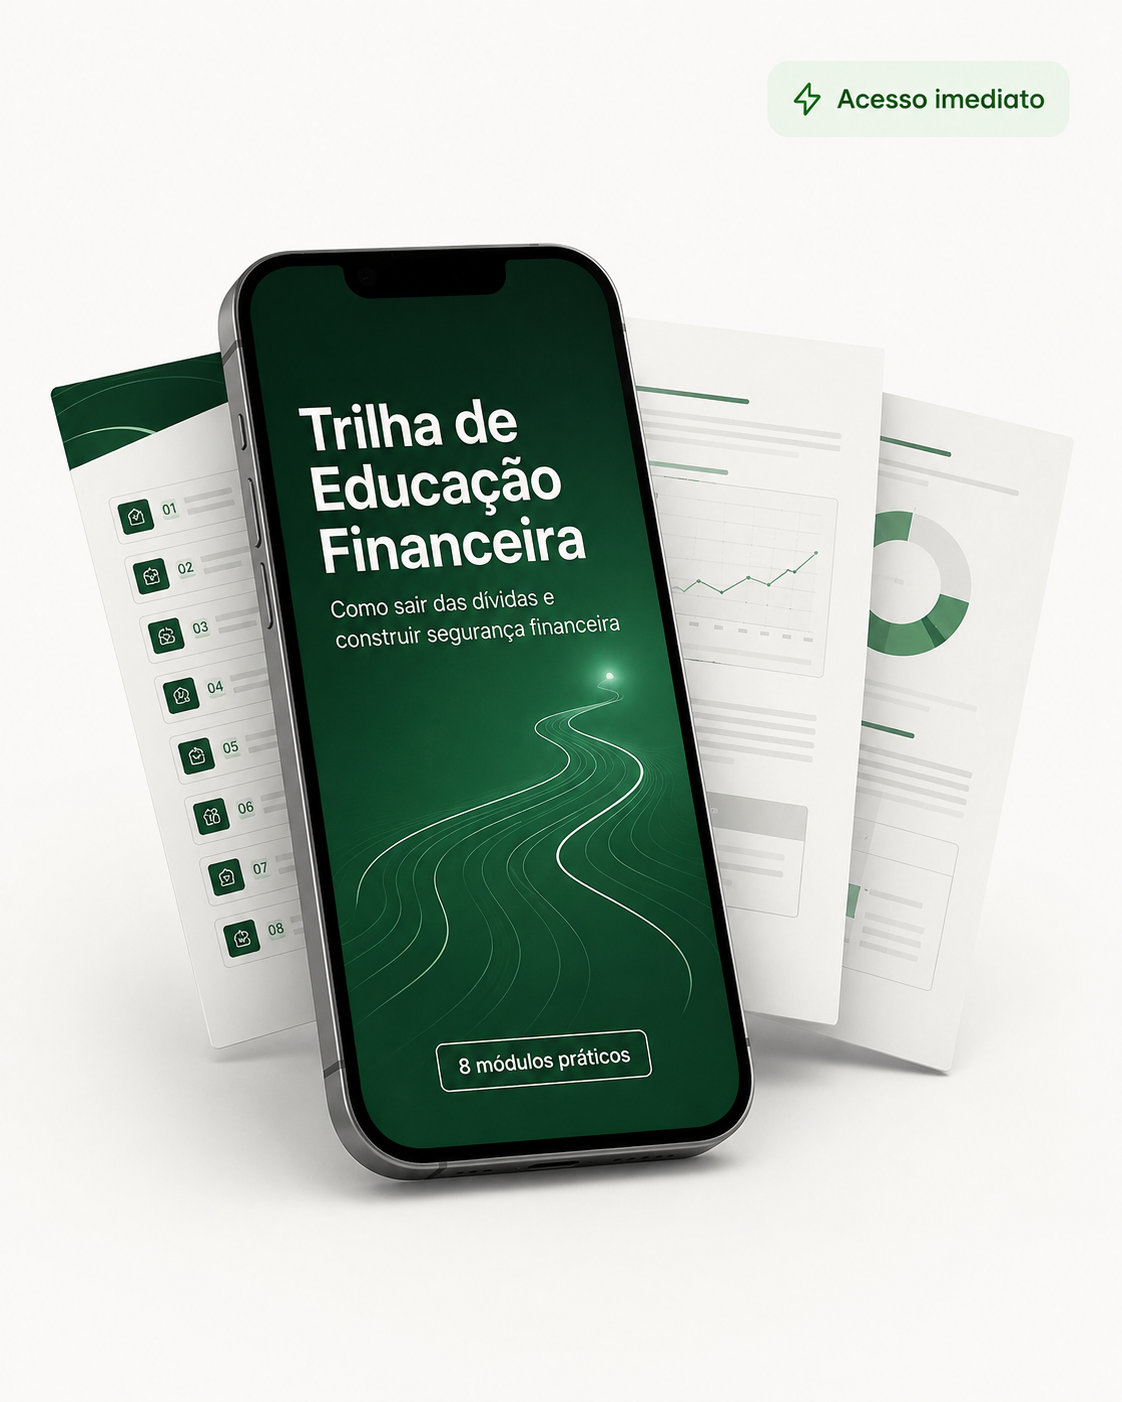
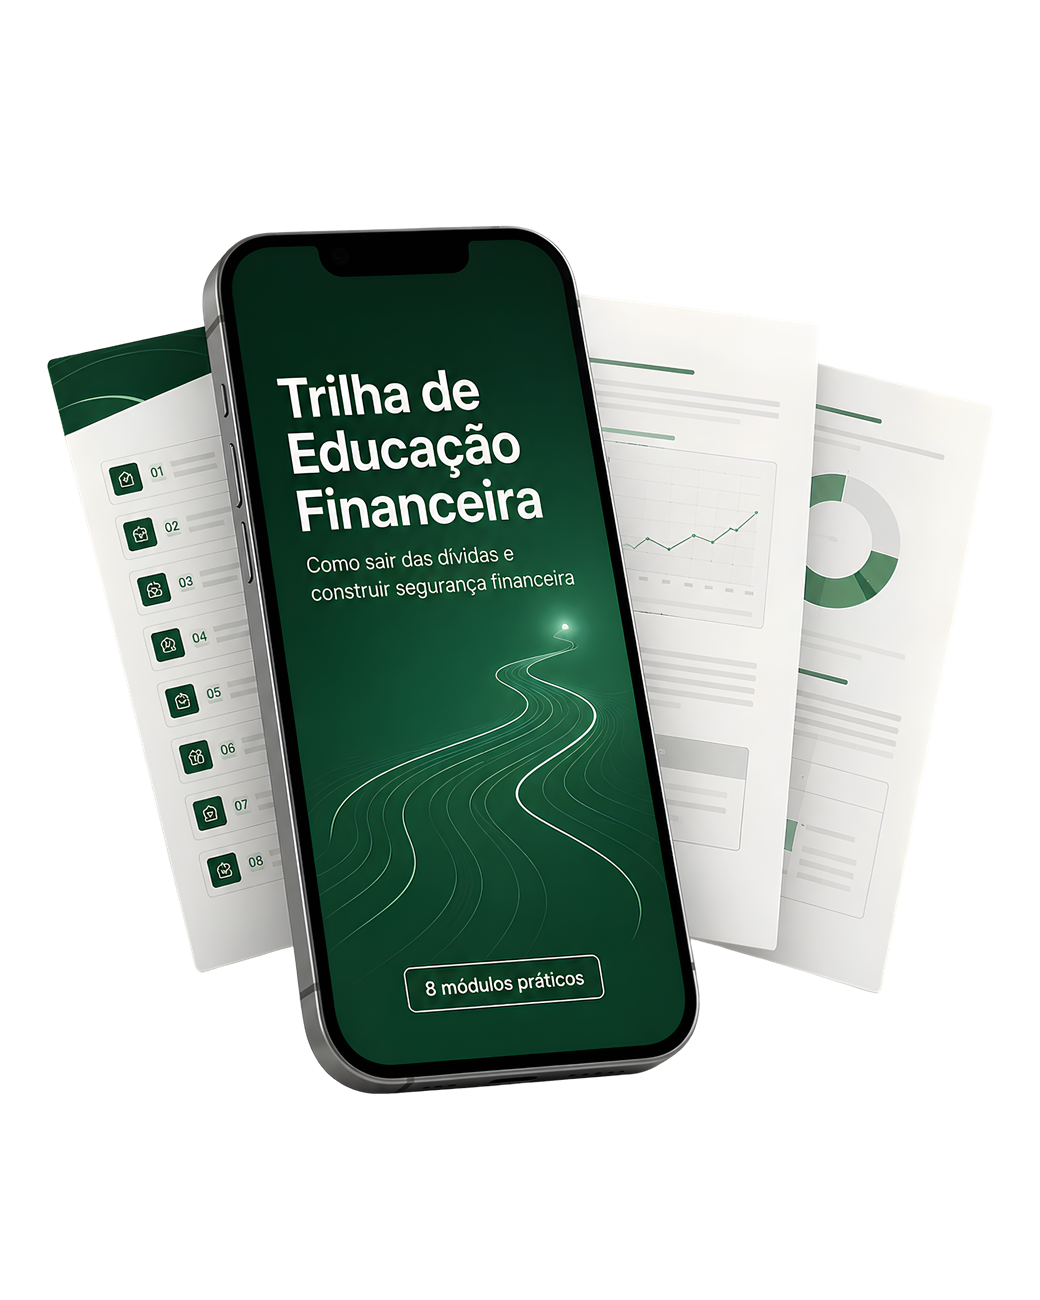
Otimiza mockup do produto com animacao leve

diff --git a/index.html b/index.html
@@ -456,6 +456,52 @@ fbq('track', 'PageView');
     margin-top: 2px;
   }
 
+  .product-mockup-section {
+    background:
+      radial-gradient(circle at 50% 20%, rgba(34,197,94,0.18), transparent 34%),
+      linear-gradient(180deg, var(--cream-dark) 0%, var(--cream) 58%, var(--dark) 100%);
+    padding: 32px 24px 76px;
+    overflow: hidden;
+  }
+  .product-mockup-frame {
+    position: relative;
+    max-width: 560px;
+    margin: 0 auto;
+    text-align: center;
+    isolation: isolate;
+  }
+  .product-mockup-frame::before {
+    content: '';
+    position: absolute;
+    inset: 14% 4% 8%;
+    background: radial-gradient(circle, rgba(34,197,94,0.28), rgba(13,43,26,0.08) 48%, transparent 72%);
+    filter: blur(24px);
+    z-index: -2;
+  }
+  .product-mockup-frame::after {
+    content: '';
+    position: absolute;
+    left: 12%;
+    right: 12%;
+    bottom: 2%;
+    height: 11%;
+    background: radial-gradient(ellipse, rgba(0,0,0,0.28), transparent 68%);
+    filter: blur(10px);
+    z-index: -1;
+  }
+  .product-mockup-image {
+    display: block;
+    width: min(100%, 520px);
+    height: auto;
+    margin: 0 auto;
+    filter:
+      drop-shadow(0 22px 28px rgba(0,0,0,0.22))
+      drop-shadow(0 0 26px rgba(34,197,94,0.16));
+    transform-origin: center;
+    animation: mockup-float 6s ease-in-out infinite;
+    will-change: transform, filter;
+  }
+
   /* ─── CHAPTERS ─── */
   .chapters-section {
     background: var(--dark);
@@ -856,6 +902,21 @@ fbq('track', 'PageView');
     50% { transform: translateY(-10px) rotate(0.5deg); }
   }
 
+  @keyframes mockup-float {
+    0%, 100% {
+      transform: translateY(0) rotate(-1.2deg) scale(1);
+      filter:
+        drop-shadow(0 22px 28px rgba(0,0,0,0.22))
+        drop-shadow(0 0 26px rgba(34,197,94,0.16));
+    }
+    50% {
+      transform: translateY(-12px) rotate(0.8deg) scale(1.015);
+      filter:
+        drop-shadow(0 30px 34px rgba(0,0,0,0.24))
+        drop-shadow(0 0 34px rgba(34,197,94,0.24));
+    }
+  }
+
   @media (prefers-reduced-motion: reduce) {
     html { scroll-behavior: auto; }
     *, *::before, *::after {
@@ -901,6 +962,8 @@ fbq('track', 'PageView');
       padding: 10px 14px;
       font-size: 14px;
     }
+    .product-mockup-section { padding: 24px 16px 56px; }
+    .product-mockup-image { width: min(100%, 380px); }
   }
 </style>
 </head>
@@ -1063,13 +1126,19 @@ alt=""></noscript>
   </div>
 </section>
 
-<div style="text-align: center; margin: 48px auto; max-width: 420px; padding: 0 24px;">
-  <img
-    src="mockup-produto.png"
-    alt="Trilha de Educação Financeira — guia completo com 8 módulos práticos"
-    style="width: 100%; max-width: 420px; height: auto; display: block; margin: 0 auto;"
-  >
-</div>
+<section class="product-mockup-section" aria-label="Mockup do guia Trilha de Educação Financeira">
+  <div class="product-mockup-frame reveal-scale">
+    <img
+      src="mockup-produto.png"
+      alt="Trilha de Educação Financeira — guia completo com 8 módulos práticos"
+      class="product-mockup-image"
+      width="1040"
+      height="1300"
+      loading="lazy"
+      decoding="async"
+    >
+  </div>
+</section>
 
 <!-- CHAPTERS -->
 <section class="chapters-section">
@@ -1339,6 +1408,7 @@ alt=""></noscript>
       '.book-content .section-title',
       '.book-content .section-desc',
       '.book-promise-list li',
+      '.product-mockup-frame',
       '.chapters-section .section-label',
       '.chapters-section .section-title',
       '.chapter-card',